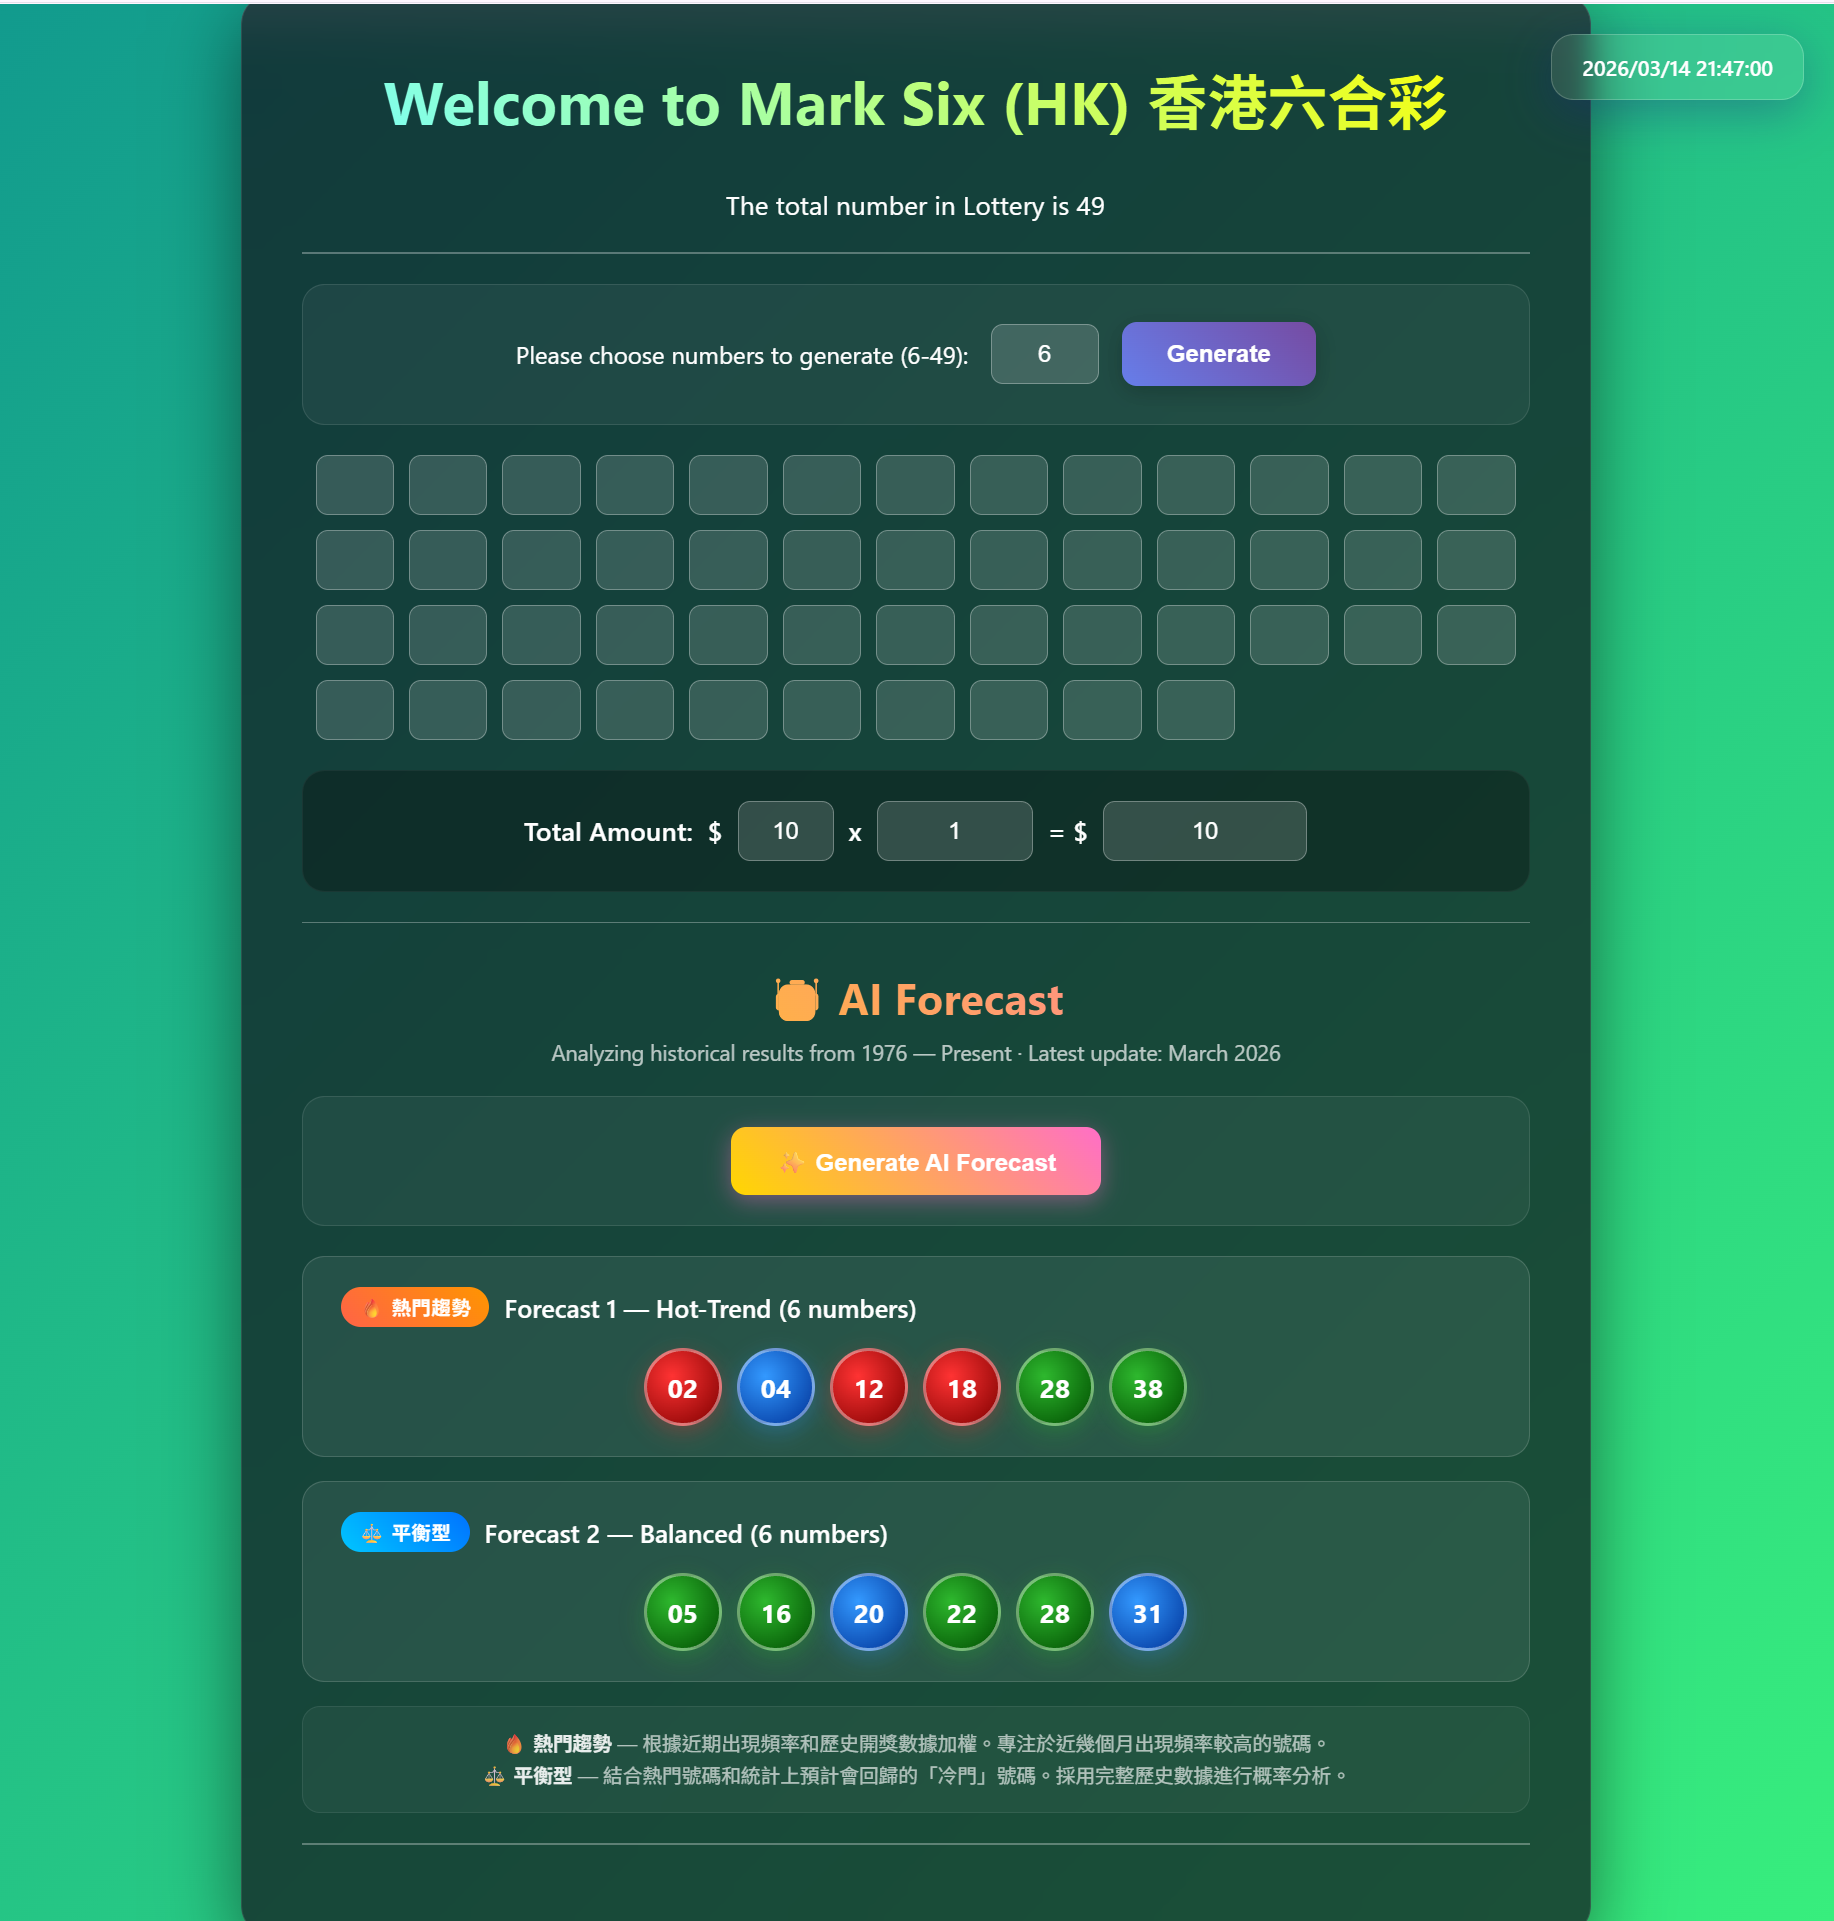
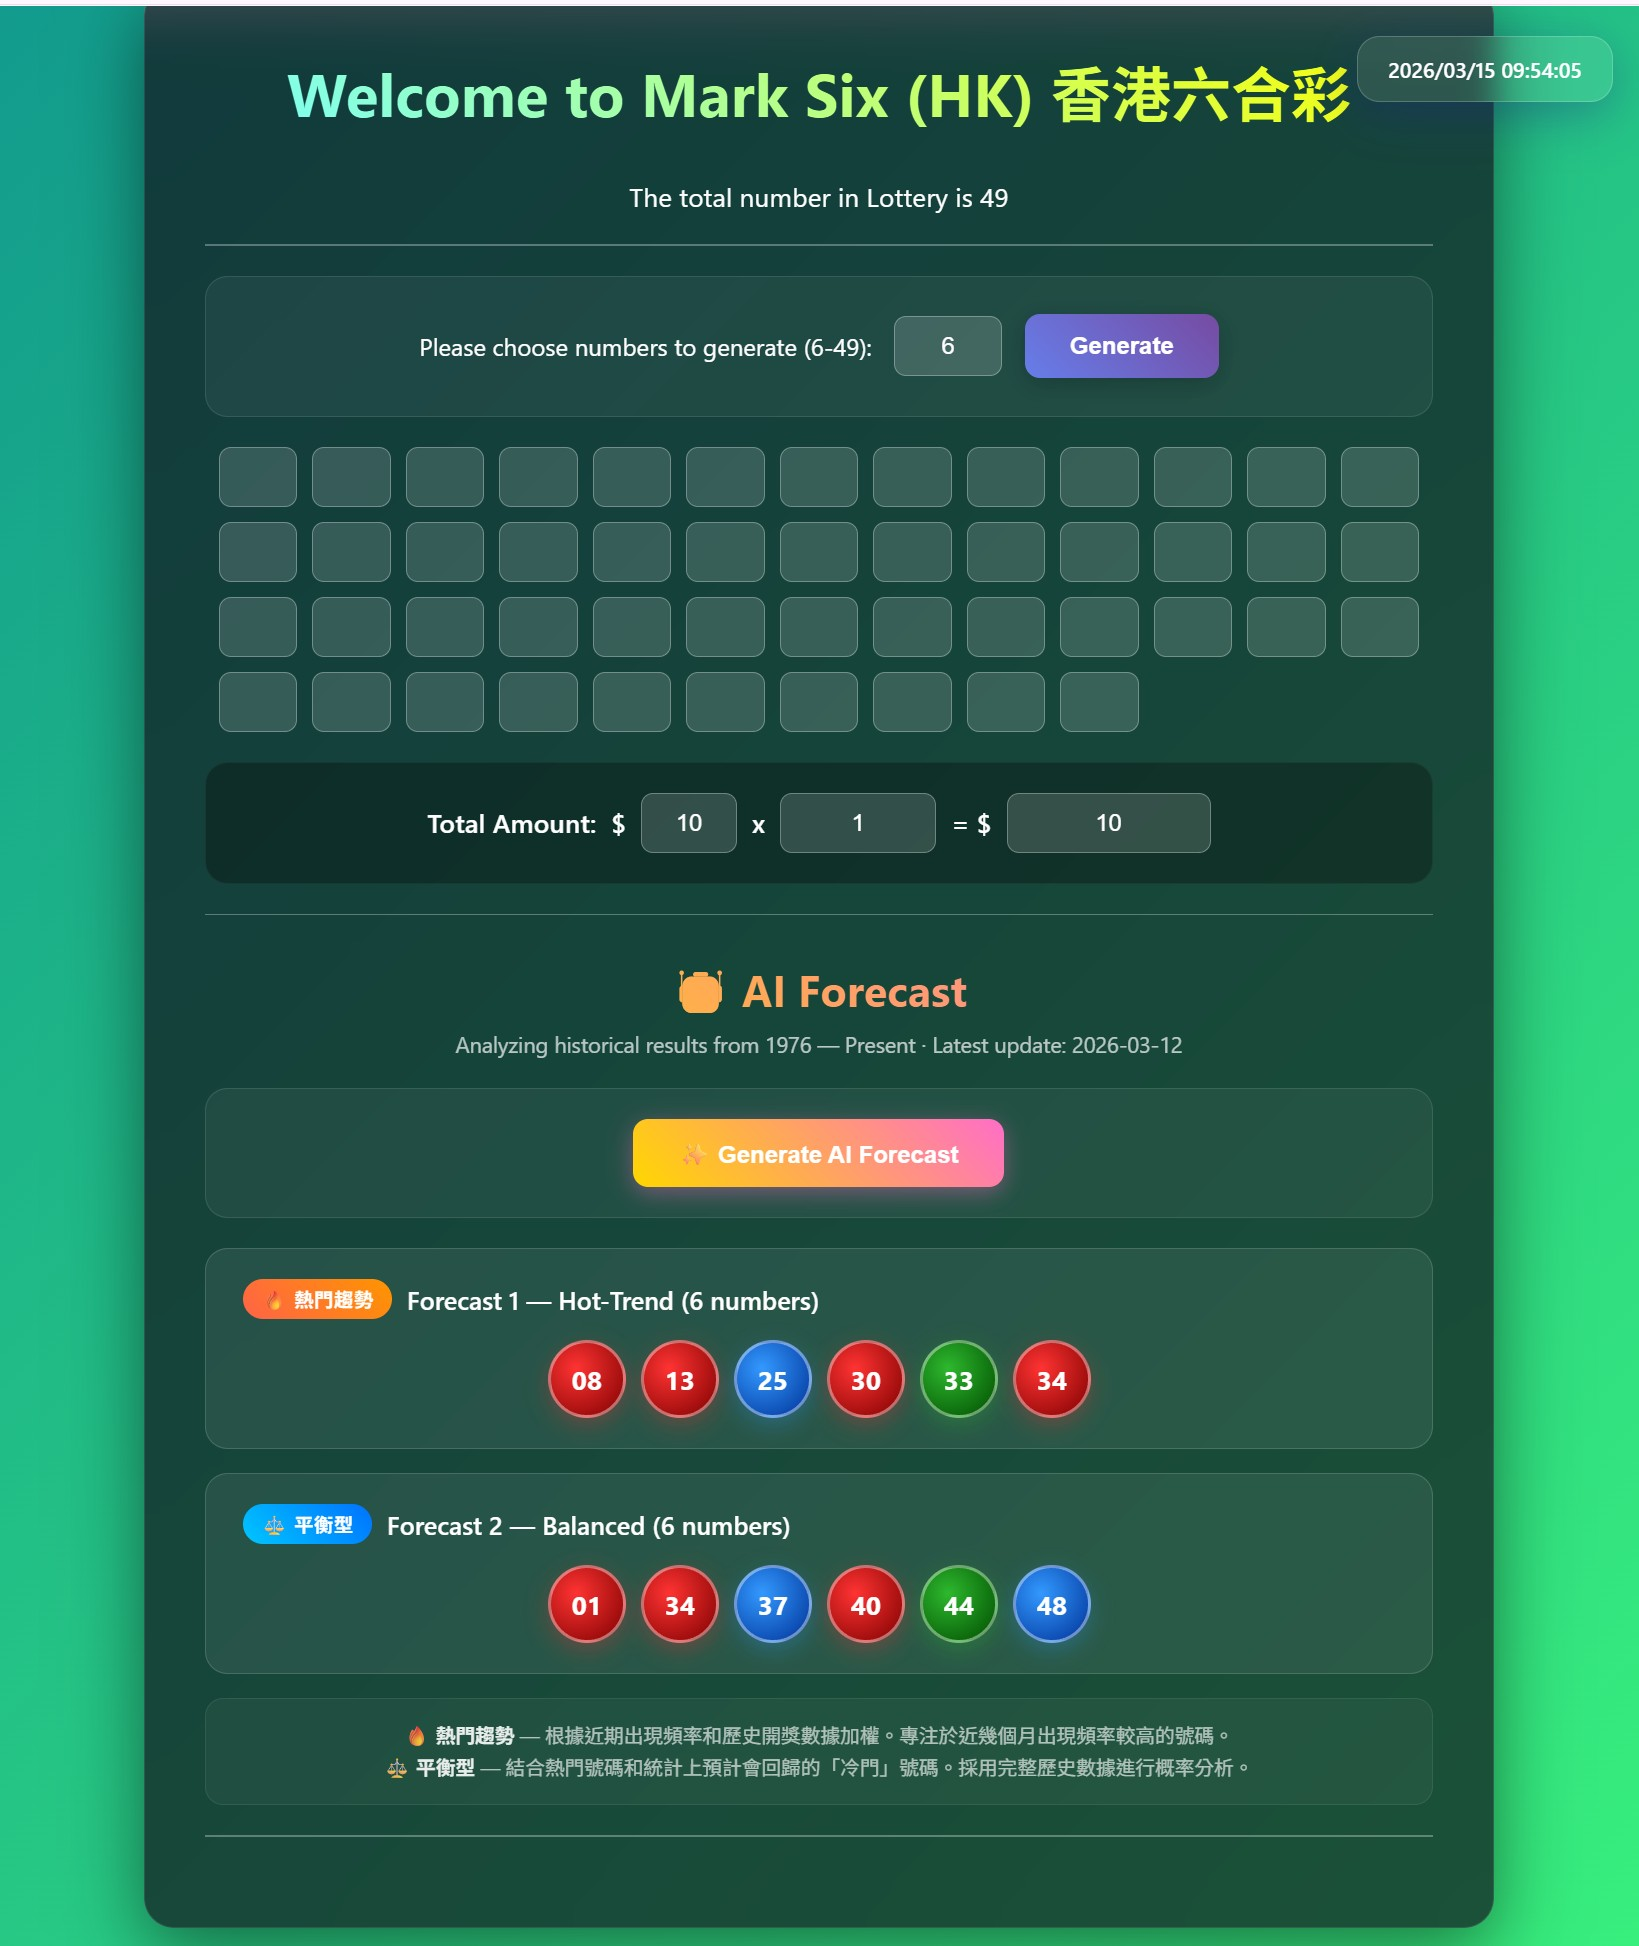
Add files via upload

Changed region(s): [[0.0622, 0.0, 0.9646, 1.0], [0.3734, 0.0937, 0.6223, 0.1249]]

diff --git a/marksix.html b/marksix.html
@@ -540,7 +540,7 @@
         if (typeof DATA_META !== 'undefined') {
             const subtitle = document.querySelector('.ai-subtitle');
             if (subtitle) {
-                subtitle.innerHTML = `Analyzing historical results from ${DATA_META.period} · Latest update: ${DATA_META.lastUpdate}`;
+                subtitle.innerHTML = `Analyzing historical results from ${DATA_META.period} · Latest update: ${DATA_META.lastDrawDate}`;
             }
         }
         generateRandomGradient();

diff --git a/marksix_data.js b/marksix_data.js
@@ -1,10 +1,11 @@
 /**
  * Historical frequency data for HK Mark Six
- * Last Updated: March 2026
- * Source: nfd.com.tw (1976 - Present)
+ * Last Updated: 2026-03-15
+ * Primary Source: marksixlotterynumbers.hk (Post-1993)
+ * Fallback/Base: nfd.com.tw (1976-Present)
  */
 const DATA_META = {
-    lastUpdate: "March 2026",
+    lastUpdate: "2026-03-15",
     lastDrawDate: "2026-03-12",
     period: "1976 — Present",
     totalDraws: "Calculated with results up to 2026-03-12"

diff --git a/sync_data_suggestion.py b/sync_data_suggestion.py
@@ -95,8 +95,10 @@ def get_latest_results_primary():
             if len(nums) >= 6:
                 all_draws.append({'date': draw_date, 'nums': nums[:7]})
         
-        all_draws.sort(key=lambda x: x['date'])
-        return all_draws
+        # De-duplicate by date to prevent double entries if source has duplicates
+        unique_draws = {d['date']: d for d in all_draws}
+        final_draws = sorted(unique_draws.values(), key=lambda x: x['date'])
+        return final_draws
     except Exception as e:
         print(f"Primary source error: {e}")
         return []
@@ -158,8 +160,10 @@ def get_nfd_year_results(year):
                     if num_text.isdigit(): nums.append(int(num_text))
                 if len(nums) == 7: all_draws.append({'date': full_date, 'nums': nums[:7]})
             except: continue
-        all_draws.sort(key=lambda x: x['date'])
-        return all_draws
+        # De-duplicate by date
+        unique_draws = {d['date']: d for d in all_draws}
+        final_draws = sorted(unique_draws.values(), key=lambda x: x['date'])
+        return final_draws
     except Exception as e:
         print(f"Yearly draws error ({year}): {e}")
         return []
@@ -191,17 +195,16 @@ def update_data():
 
     # 4. Integrate New Results
     pending_draws = [d for d in new_draws if d['date'] > start_date]
-    if not pending_draws:
-        # If no new draws found, check if we need to sync color config
-        if "BALL_COLORS" in open(DATA_FILE, encoding='utf-8').read():
-            print(f"Already up to date. (Last draw: {start_date})")
-            return 'no_change'
-        else:
-            print("Syncing structure/colors...")
-            pending_draws = [] # Force update logic below
-
     print(f"Found {len(pending_draws)} new draws!")
-    latest_date = start_date
+    latest_date = draw['date'] if pending_draws else start_date
+    if not pending_draws:
+        # Check if current lastUpdate in file is old format (e.g., "March 2026")
+        with open(DATA_FILE, 'r', encoding='utf-8') as f:
+            if not re.search(r'lastUpdate: "\d{4}-\d{2}-\d{2}"', f.read()):
+                print("Updating file to reflect exact date format...")
+            else:
+                print(f"Already up to date. (Last draw: {start_date})")
+                return 'no_change'
     for draw in pending_draws:
         for n in draw['nums']:
             num_str = str(n)
@@ -215,7 +218,7 @@ def update_data():
 
     # Generate new JS content
     now = datetime.now()
-    update_str = now.strftime("%B %Y")
+    update_str = now.strftime("%Y-%m-%d")
     freq_lines = []
     freq_items = sorted(final_freq.items(), key=lambda x: int(x[0]))
     for i in range(0, 49, 7):

diff --git a/sync.php b/sync.php
@@ -10,7 +10,7 @@
 header('Content-Type: application/json');
 
 // Run the python script and capture output
-$command = escapeshellcmd('/usr/bin/python3 sync_data_suggestion.py');
+$command = 'Z:\\antigravity\\venv\\Scripts\\python.exe sync_data_suggestion.py';
 $output = shell_exec($command . ' 2>&1');
 
 echo json_encode([
